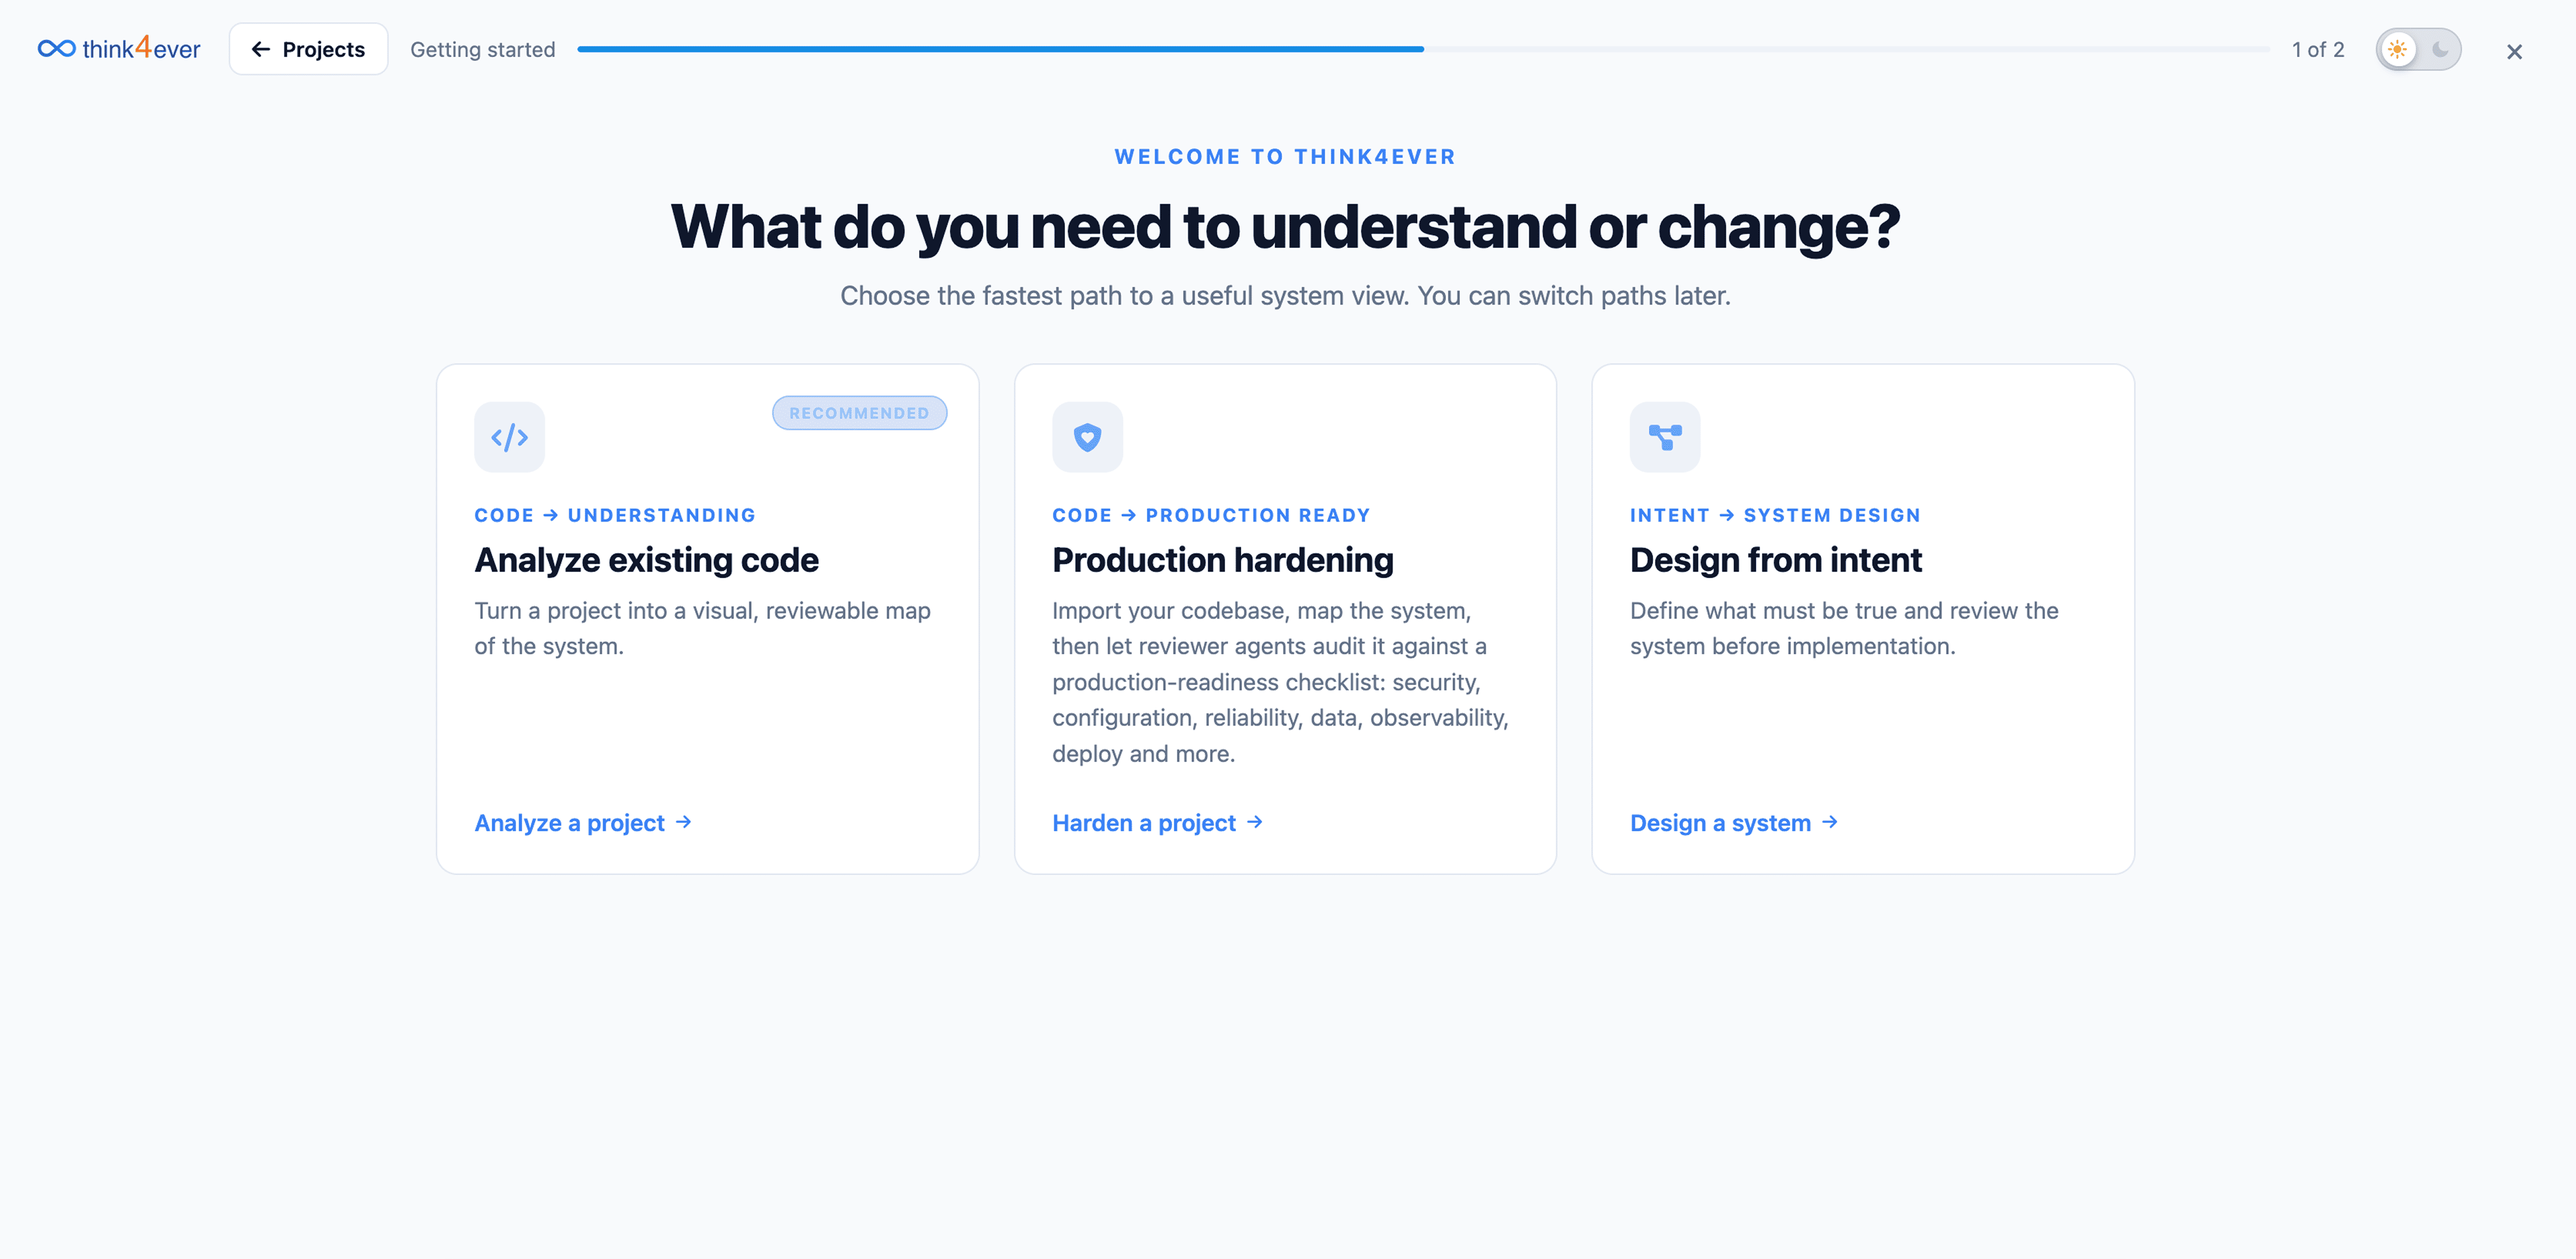
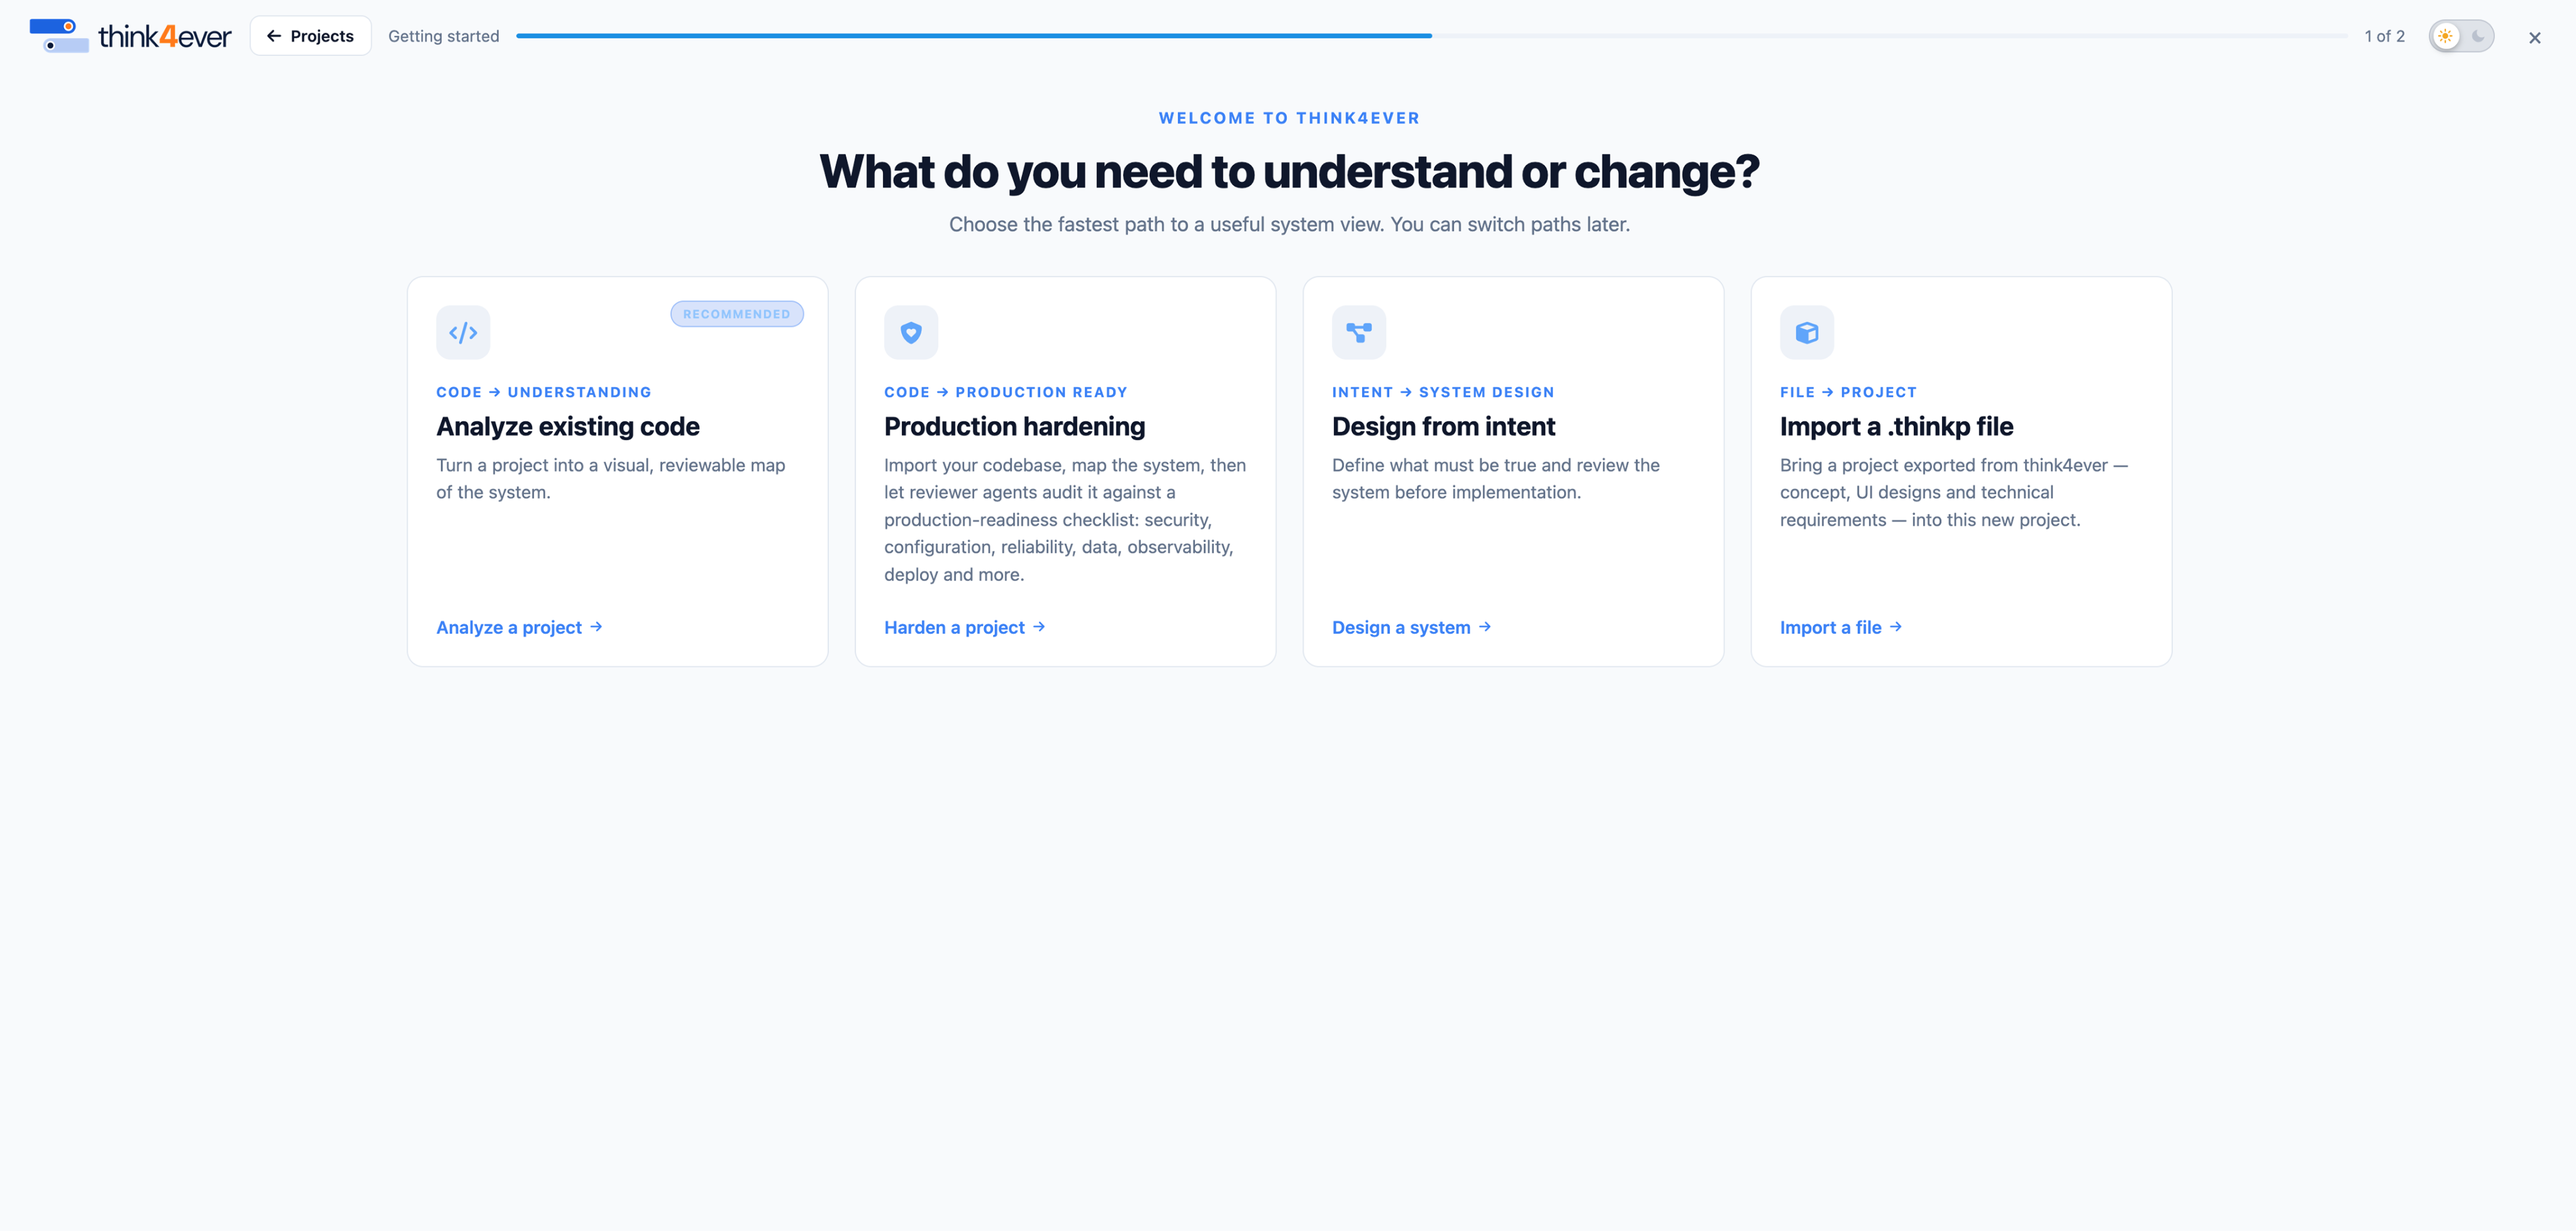
import thinkp file added

diff --git a/src/config/navigation.tsx b/src/config/navigation.tsx
@@ -462,6 +462,11 @@ export const docsSidebarNav: SidebarGroup[] = [
             badge: "Design from scratch",
             href: "/design_from_intent",
           },
+          {
+            title: "Import .thinkp file",
+            badge: "Use existing think4ever project",
+            href: "/import_thinkp",
+          },
         ],
       },
     ],
